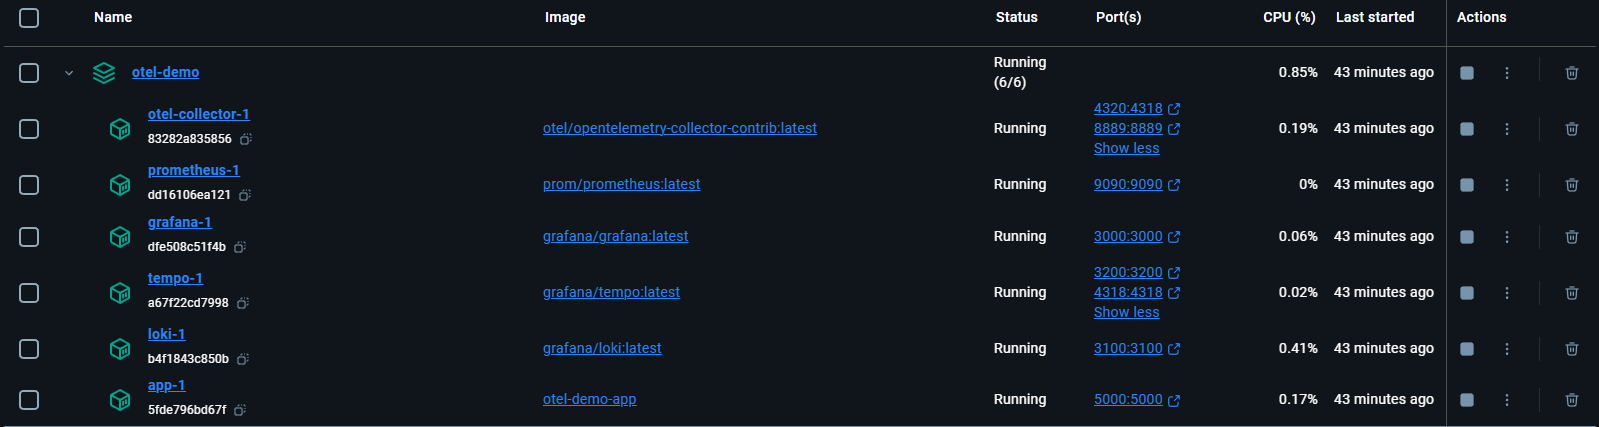
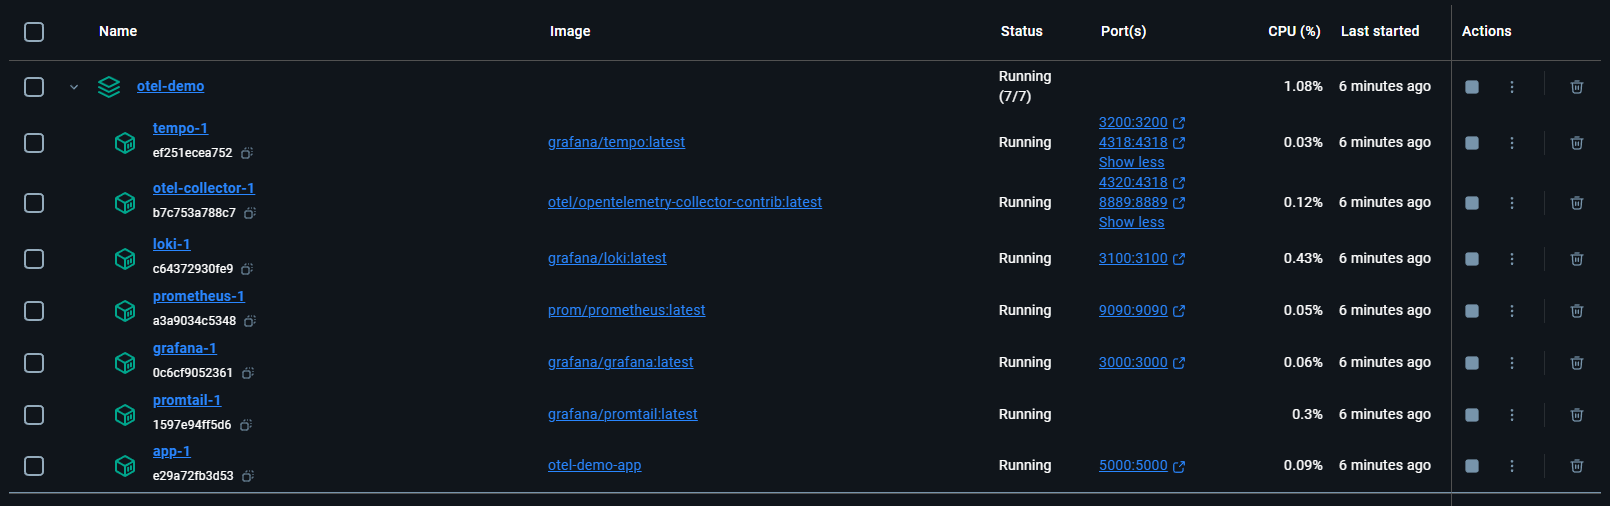
Add promtail for logs & dashboard with datasources

diff --git a/README.md b/README.md
@@ -17,7 +17,8 @@ The Flask application is instrumented with OpenTelemetry to generate traces, met
 - Implements a custom /api/users endpoint that makes an external API call
 - Configures OpenTelemetry to send data to the OpenTelemetry Collector
 
-### The Dockerfile is used to build the Docker image for our Flask application. It specifies:
+### Dockerfile
+The Dockerfile is used to build the Docker image for our Flask application. It specifies:
 - The base image (Python 3.12 slim version)
 - The working directory in the container
 - Install dependencies
